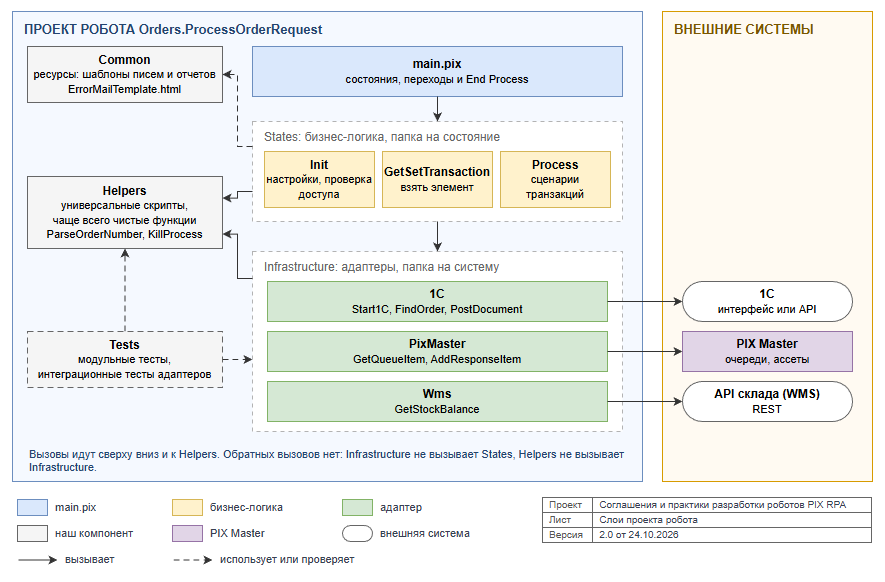
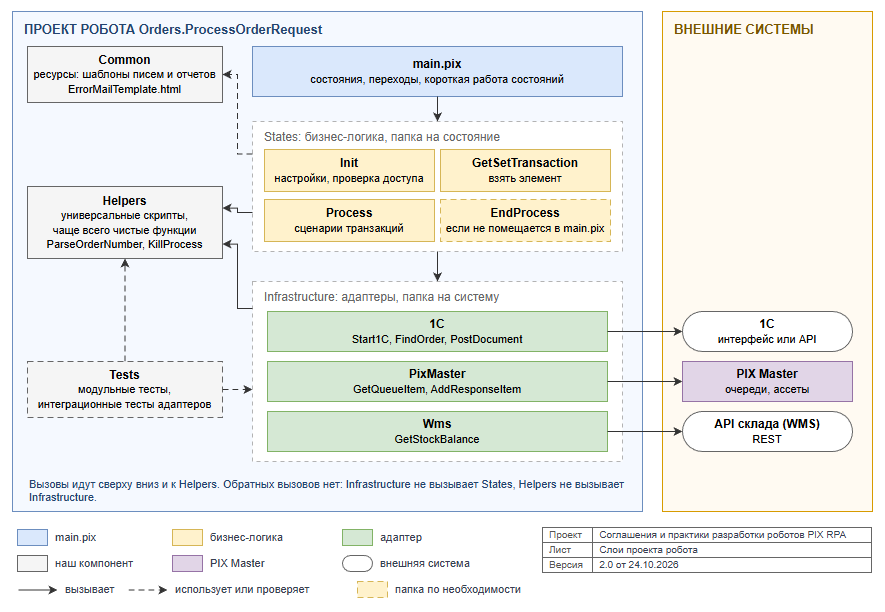
docs: template.md, короткое состояние в блоке main.pix, сложное завершение в States/EndProcess

diff --git a/docs/1-project/template.md b/docs/1-project/template.md
@@ -23,12 +23,14 @@
 
 | Слой | Что лежит | Пример | Чего не делает |
 |------|-----------|--------|----------------|
-| `main.pix` | Состояния и переходы между ними ([TEMPLATE-02](#template-02-используйте-состояния-state-machine-по-назначению)) | Блоки `Init` и `Init - Route` | Работу состояний делают скрипты `States`. Сам `main.pix` выполняет только End Process: закрывает приложения и удаляет временные файлы |
+| `main.pix` | Состояния и переходы между ними ([TEMPLATE-02](#template-02-используйте-состояния-state-machine-по-назначению)) | Блоки `Init` и `Init - Route` | Длинную работу состояний: ее делают скрипты `States` |
 | `States` | Бизнес-логика: что сделать с транзакцией и когда это бизнес-исключение. По папке на состояние | `Process/RunRequestScenario` | Не держит код работы с системой, нужный в нескольких местах |
 | `Infrastructure` | Одно действие во внешней системе, по папке на систему | `1C/FindOrder`, `Wms/GetStockBalance` | Не принимает бизнес-решений: что делать, если заказ не найден, решает `States` |
 | `Helpers` | Универсальные скрипты, не привязанные к состоянию или системе. Чаще всего это чистые функции: на одних входных данных дают один результат | `ParseOrderNumber`, `KillProcess` | Не обращается к внешним системам, не содержит бизнес-правил, не читает переменные `main.pix` |
 | `Common` | Ресурсы робота: шаблоны писем и отчетов ([PROJECT-02](project.md#project-02-храните-ресурсы-робота-в-самом-проекте)) | `ErrorMailTemplate.html` | Скриптов не содержит |
 | `Tests` | Модульные и интеграционные тесты ([TEST-01](../2-develop/test.md#test-01-покрывайте-тестами-скрипты-с-бизнес-логикой-и-преобразованием-данных)) | `UnitTests/Helpers/ParseOrderNumber.EmptyString.ThrowsBusinessException` | Сквозные тесты робота проходят на UAT и в проекте не лежат |
+
+**Короткое состояние оставляйте в блоке `main.pix`.** Если работе состояния хватает нескольких активностей или 1–5 строк кода, папку и отдельные скрипты не заводите: переход в папку ради трех активностей только замедляет чтение. Обычно так выглядит End Process: закрыть приложения и удалить временные файлы. Когда работа выросла, вынесите ее в папку состояния. Для End Process это `States/EndProcess`, например если робот перед завершением выгружает отчет о запуске и рассылает итоговое письмо.
 
 Вызовы идут сверху вниз: `main.pix` вызывает `States`, `States` вызывает `Infrastructure` и `Helpers`, `Infrastructure` вызывает `Helpers`. Обратных вызовов нет: адаптер `Infrastructure` не вызывает скрипт состояния, а `Helpers` не вызывает адаптер.
 
@@ -38,7 +40,8 @@ Orders.ProcessOrderRequest
 ├───States                      бизнес-логика, по папке на состояние
 │   ├───Init                    InitConfig, ValidateEnvironment, CleanupAndPrep
 │   ├───GetSetTransaction       GetTransaction
-│   └───Process                 RunRequestScenario, CompleteTransaction, Transactions
+│   ├───Process                 RunRequestScenario, CompleteTransaction, Transactions
+│   └───EndProcess              если завершение не помещается в блок main.pix
 ├───Infrastructure              работа с внешними системами, по папке на систему
 │   ├───1C                      Start1C, FindOrder, PostDocument
 │   ├───PixMaster               GetQueueItem, AddResponseItem
@@ -77,7 +80,7 @@ Orders.ProcessOrderRequest
 | Init | Собирает `config` из ассетов, запускает 1С или подключается к открытой, проверяет доступ ко всем системам робота ([TEMPLATE-03](#template-03-проверяйте-доступ-ко-всем-системам-робота-в-init)). При повторе сначала закрывает зависшие процессы | Не берет транзакции | `InitConfig`, `ValidateEnvironment`, `CleanupAndPrep`, `1C/Start1C` |
 | Get Transaction | Проверяет сигнал остановки ([RECOVERY-06](../2-develop/recovery.md#recovery-06-проверяйте-сигнал-остановки-от-мастера)) и берет один элемент очереди | Не меняет данные во внешних системах | `GetTransaction` |
 | Process Transaction | Выбирает сценарий по типу транзакции и выполняет его ([«Как разложить логику транзакции»](#как-разложить-логику-транзакции)) | Не закрывает приложения, не выбирает следующее состояние | `RunRequestScenario` |
-| End Process | Закрывает приложения, удаляет временные файлы. Если была ошибка, выбрасывает ее снова, и задача в PIX Master получает статус ошибки | Не отвечает пользователю и не меняет статусы элементов: это уже сделал `CompleteTransaction` | Блок в `main.pix` |
+| End Process | Закрывает приложения, удаляет временные файлы. Если была ошибка, выбрасывает ее снова, и задача в PIX Master получает статус ошибки | Не отвечает пользователю и не меняет статусы элементов: это уже сделал `CompleteTransaction` | Блок в `main.pix`, сложное завершение в `States/EndProcess` |
 
 ### Три или четыре состояния
 

diff --git a/CHANGELOG.md b/CHANGELOG.md
@@ -24,7 +24,7 @@
 - Правило оформления примеров: скриншоты из PIX Studio вместо C#-вставок, чтобы новым коллегам было понятно, как правило выглядит в Studio (CONTRIBUTING)
 
 ### Изменено
-- TEMPLATE-01 описывает слои по назначению кода: переходы, бизнес-логика, адаптеры внешних систем, универсальные скрипты. `Helpers` это универсальные скрипты, не привязанные к состоянию или системе, чаще всего чистые функции. Вместо матрицы вызовов два запрета обратных вызовов, дерево проекта сокращено до слоев, таблица «Куда положить скрипт» до трех строк. Шаблон называется «Универсальный шаблон», как в PIX Studio, сокращение ШАР убрано. В TEMPLATE-02 ответ и статус элемента пишет `CompleteTransaction`, его вызывает блок `Route`
+- TEMPLATE-01 описывает слои по назначению кода: переходы, бизнес-логика, адаптеры внешних систем, универсальные скрипты. `Helpers` это универсальные скрипты, не привязанные к состоянию или системе, чаще всего чистые функции. Вместо матрицы вызовов два запрета обратных вызовов, дерево проекта сокращено до слоев, таблица «Куда положить скрипт» до трех строк. Шаблон называется «Универсальный шаблон», как в PIX Studio, сокращение ШАР убрано. В TEMPLATE-02 ответ и статус элемента пишет `CompleteTransaction`, его вызывает блок `Route`. Короткое состояние, до 1–5 строк кода, остается в блоке `main.pix` без папки; сложное завершение выносится в `States/EndProcess` (имя папки в NAMING-02)
 - Схемы template.md: схема слоев нарисована заново (`States`, `Infrastructure`, `Helpers` с вызовами из `States` и `Infrastructure`), на схеме состояний «Запуск робота» и `CompleteTransaction`, на схеме сценария все шаги желтые, метка элемента очереди вынесена из `Infrastructure`. В CONTRIBUTING шаг сценария всегда цвета бизнес-логики. Штамп всех листов: «Соглашения и практики разработки роботов PIX RPA»
 - Заголовок README: «Соглашения и практики разработки роботов PIX RPA» вместо «PIX RPA Development Conventions», в описании сказано, что в репозитории и правила, и справки
 - README: «Зачем это нужно» переписан как концепция соглашения. Одну задачу можно решить по-разному, соглашение фиксирует выбор команды; пять целей: быстрый вход в проект, понятные ошибки, устойчивость к сбоям, независимость от окружения, простые изменения; таблица ситуаций «без соглашения / по соглашению» со ссылками на правила: чужой проект, ошибка в логе, смена пароля, перенос на UAT, повтор без дубля. Добавлен раздел «Что сюда не входит»: работа в команде, Git, код-ревью, документы робота, разработка своих библиотек и активностей. «С чего начать» стал таблицей по ролям: новичок, опытный разработчик, ревьюер. Предупреждение о версии PIX Studio перенесено в «Как читать правила». Карта разделов переведена из таблиц в списки: у каждого раздела вместо ключевых слов главное правило

diff --git a/docs/1-project/naming.md b/docs/1-project/naming.md
@@ -39,7 +39,7 @@
 - Не заводите параллельные папки с похожим смыслом: `Utils`, `Tools`, `Misc`, `Scripts`, `New folder`
 - Папки внутри `Infrastructure` называются по внешней системе или каналу: `1C`, `Crm`, `Wms`, `Mail`, `DataBase`, `PixMaster`
 - Папки транзакций внутри состояния называются по типу транзакции: `States/Process/Transactions/AddOrderItem`. Шаги, общие для нескольких типов, лежат в `Transactions/Shared` (см. [«Сценарий транзакции»](template.md#сценарий-транзакции-паттерн-transaction-script))
-- Папка для End Process не обязательна: если завершение помещается в блок `main.pix`, ее нет
+- Папка для End Process называется `EndProcess` и не обязательна: если завершение помещается в блок `main.pix`, ее нет
 
 **Почему:** в любом проекте команды скрипт ищется по одному и тому же пути.
 
